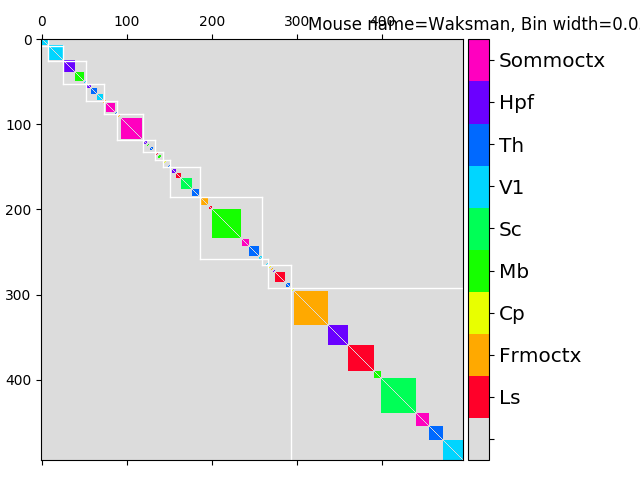
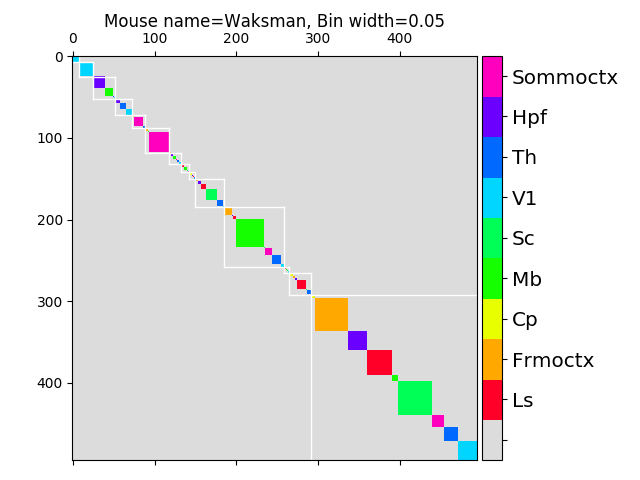
Edited cluster map creation.

Changed region(s): [[0.0, 0.0312, 1.0, 0.9688]]

diff --git a/py/plot_communities.py b/py/plot_communities.py
@@ -52,11 +52,13 @@ def plotRegionalClusterMap(signal_final_cell_info, mouse_name, bin_width):
         j_region = sorted_final_cell_info.iloc[j]['cell_region']
         i_cluster = sorted_final_cell_info.iloc[i]['consensus_cluster']
         j_cluster = sorted_final_cell_info.iloc[j]['consensus_cluster']
-        if (i_region == j_region) & (i_cluster == j_cluster):
-            regional_cluster_matrix[i,j] = list(required_regions).index(i_region)+1
+        regional_cluster_matrix[i,j] = list(required_regions).index(i_region)+1 if (i_region == j_region) & (i_cluster == j_cluster) else 0
     regional_cluster_matrix = regional_cluster_matrix + regional_cluster_matrix.T
+    for i in range(num_nodes):
+        i_region = sorted_final_cell_info.iloc[i]['cell_region']
+        regional_cluster_matrix[i,i] = list(required_regions).index(i_region)+1
     sorted_clustering = sorted_final_cell_info['consensus_cluster'].values
-    cluster_changes = np.hstack([-1, np.flatnonzero(np.diff(sorted_clustering) != 0), sorted_clustering.size-1]) + 0.5
+    cluster_changes = np.hstack([-0.5, np.flatnonzero(np.diff(sorted_clustering) != 0), sorted_clustering.size-0.5])
     cmap = colors.ListedColormap(np.vstack([colors.to_rgba('gainsboro'), list(ep.region_to_colour.values())]))
     bounds = range(required_regions.size+2)
     norm = colors.BoundaryNorm(bounds, cmap.N)
@@ -71,17 +73,18 @@ def plotRegionalClusterMap(signal_final_cell_info, mouse_name, bin_width):
     cb = plt.colorbar(im, cax=cax, cmap=cmap, norm=norm, boundaries=bounds, ticks=np.array(bounds)[1:] - 0.5)
     cb.ax.tick_params(labelsize='x-large')
     cb.set_ticklabels([c.replace('_', ' ').capitalize() for c in [''] + list(required_regions)] )
-    plt.title("Mouse name=" + mouse_name + ', Bin width=' + str(bin_width), fontsize='large')
+    ax.set_title("Mouse name=" + mouse_name + ', Bin width=' + str(bin_width), fontsize='large')
     plt.tight_layout()
 
-print(dt.datetime.now().isoformat() + ' INFO: ' + 'Starting main function...')
-for bin_width in ep.selected_bin_widths:
-    for mouse_name in ep.mouse_names:
-        signal_final_cell_info = loadCommunityInfo(mouse_name, bin_width, npy_dir)
-        plotRegionalClusterMap(signal_final_cell_info, mouse_name, bin_width)
-        fig_file_name = os.path.join(image_dir, 'community_detection', 'regional_cluster_maps', mouse_name + '_' + str(bin_width).replace('.','p') + '_regional_cluster_map.png')
-        plt.savefig(fig_file_name)
-        print(dt.datetime.now().isoformat() + ' INFO: ' + fig_file_name + ' saved.')
+if (not args.debug) & (__name__ == "__main__"):
+    print(dt.datetime.now().isoformat() + ' INFO: ' + 'Starting main function...')
+    for bin_width in ep.selected_bin_widths:
+        for mouse_name in ep.mouse_names:
+            signal_final_cell_info = loadCommunityInfo(mouse_name, bin_width, npy_dir)
+            plotRegionalClusterMap(signal_final_cell_info, mouse_name, bin_width)
+            fig_file_name = os.path.join(image_dir, 'community_detection', 'regional_cluster_maps', mouse_name + '_' + str(bin_width).replace('.','p') + '_regional_cluster_map.png')
+            plt.savefig(fig_file_name)
+            print(dt.datetime.now().isoformat() + ' INFO: ' + fig_file_name + ' saved.')
 
 # TODO  dictionary of proper names
 #       make the figures bigger
